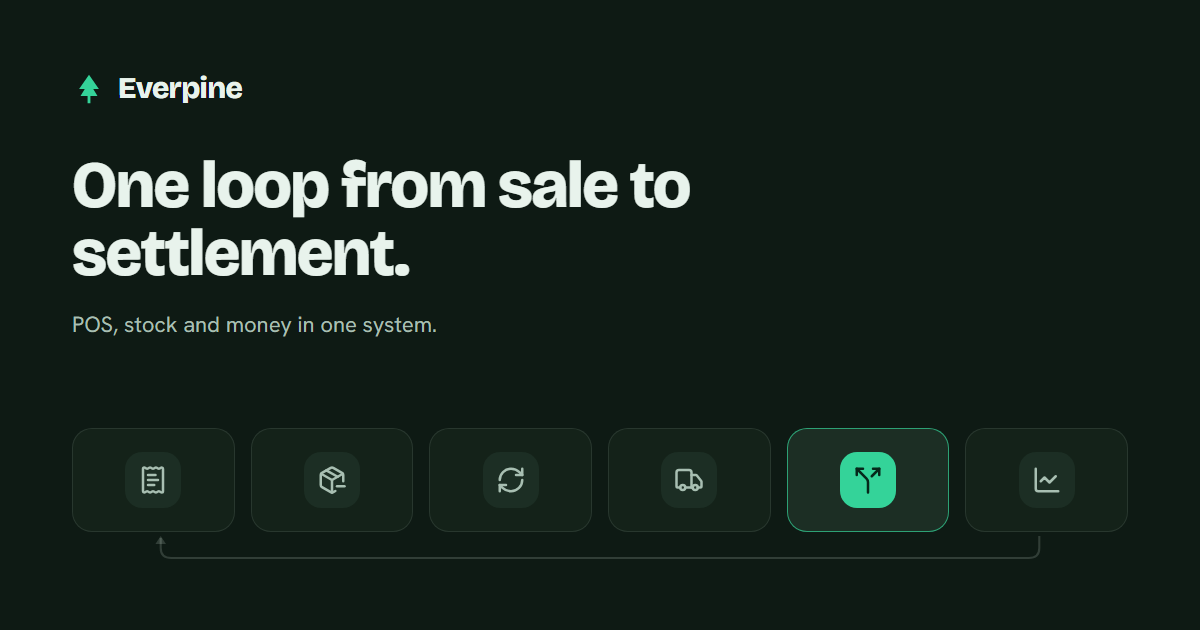
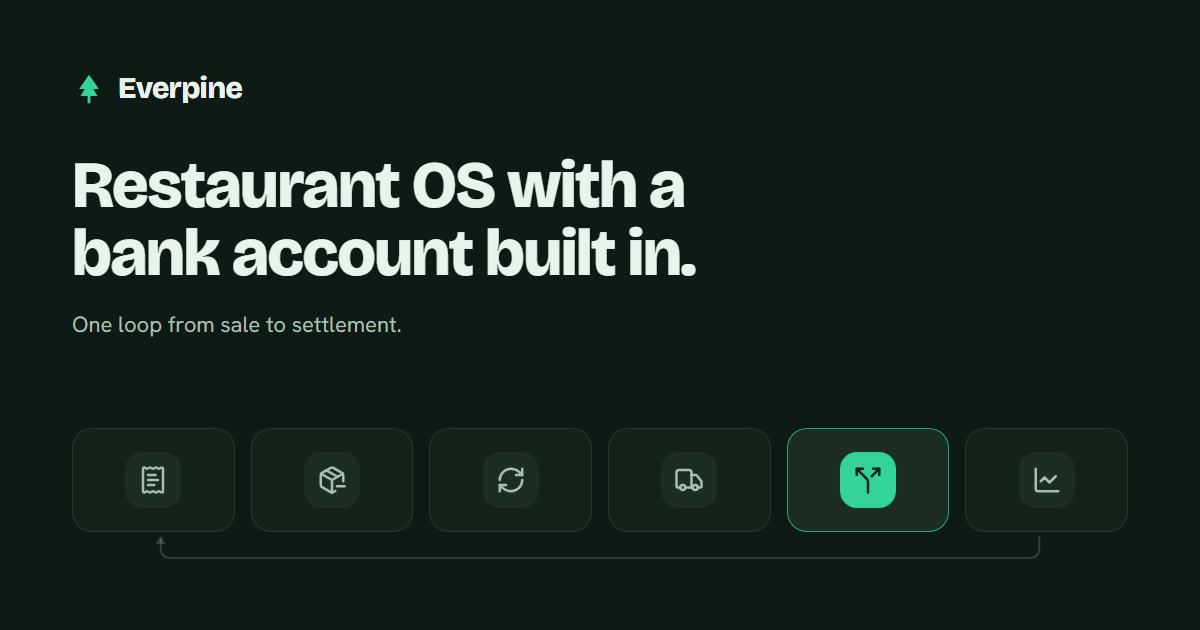
Align the landing with the YC application (v1.1)
The page is the link a partner follows from the application, so any factual
gap between the two reads as embellishment. H1 is now the application's
one-liner; the old H1 opens the subheading. "Built in Austin, running on real
restaurant data" is gone — there are no customers yet and the application says
so. The proof strip tells velocity instead of completeness, because without
customers that is the only thing outsiders can check.

Geography is absent from the page as a class, including the supplier names
baked into the product screenshots: grep cannot see pixels, a reader can.
Those are swapped at capture time by demo-video/neutral-names.js.

Also: a founder block before the CTA (its LinkedIn URL is still blank —
inventing a real person's profile link is worse than omitting it), og:image
now resolves against the host the page is served from while og:url stays
canonical, and a .dockerignore that keeps the live .next out of the build
context — it was mutating mid-tar and failing the build with "unexpected EOF".

Changed region(s): [[0.0617, 0.2413, 0.5858, 0.4524], [0.0617, 0.4825, 0.37, 0.5429]]

diff --git a/app/layout.jsx b/app/layout.jsx
@@ -13,17 +13,29 @@ const dmMono = DM_Mono({
   subsets: ['latin'], weight: ['400', '500'], display: 'swap', variable: '--font-dmmono',
 })
 
-const SITE = process.env.NEXT_PUBLIC_SITE_URL || 'https://everpine.io'
+// Два разных адреса, и это намеренно.
+//
+// HOST — где страница лежит физически. Относительные ссылки в метаданных Next разворачивает
+// в абсолютные по metadataBase, а og:image обязан резолвиться с текущего хоста: картинку
+// скачивает робот Slack, и на ещё не поднятом everpine.io он получит пустое превью.
+// CANONICAL — где страница будет жить постоянно; это адрес для og:url.
+const HOST =
+  process.env.NEXT_PUBLIC_SITE_URL ||
+  (process.env.RAILWAY_PUBLIC_DOMAIN && `https://${process.env.RAILWAY_PUBLIC_DOMAIN}`) ||
+  'https://everpine.io'
+const CANONICAL = 'https://everpine.io'
+
+const TITLE = 'Everpine — Restaurant OS with a bank account built in'
 
 export const metadata = {
-  metadataBase: new URL(SITE),
-  title: 'Everpine · One loop from sale to settlement',
+  metadataBase: new URL(HOST),
+  title: TITLE,
   description:
     'Everpine runs the restaurant operating loop end to end: a sale deducts stock, drafts the reorder, and one supplier payment splits itself across suppliers.',
   openGraph: {
-    title: 'Everpine · One loop from sale to settlement',
+    title: TITLE,
     description: 'POS, inventory and money in one loop. A sale deducts stock, drafts the reorder, and the payment splits itself.',
-    url: '/', siteName: 'Everpine', type: 'website',
+    url: CANONICAL, siteName: 'Everpine', type: 'website',
     images: [{ url: '/assets/og.png', width: 1200, height: 630, alt: 'Everpine: the loop from sale to settlement' }],
   },
   twitter: { card: 'summary_large_image' },
@@ -32,9 +44,13 @@ export const metadata = {
 
 export const viewport = { themeColor: '#0E1A14' }
 
+// suppressHydrationWarning на <html>: класс `js` дописывается скриптом до гидратации, и React
+// честно сообщает о расхождении разметки с сервером. Расхождение здесь намеренное — подавляем
+// предупреждение точечно на этом узле, а не глушим гидратацию целиком.
 export default function RootLayout({ children }) {
   return (
-    <html lang="en" className={`${bricolage.variable} ${hanken.variable} ${dmMono.variable}`}>
+    <html lang="en" suppressHydrationWarning
+          className={`${bricolage.variable} ${hanken.variable} ${dmMono.variable}`}>
       <head>
         {/* Ставим класс до первой отрисовки: без него скрытое состояние scroll-reveal
             вообще не включается, и страница остаётся видимой при сбое JS. */}

diff --git a/components/Proof.jsx b/components/Proof.jsx
@@ -1,13 +1,19 @@
 import s from './Proof.module.css'
 
-// Цифры не выдуманы: 11 сервисов — модули app-rail платформы, «1 платёж» и «0 экспортов» —
-// свойства продукта, Austin — первый рынок. Место набирается головным шрифтом: в моно оно
-// притворялось бы метрикой.
+// Полоса рассказывает velocity, а не полноту: у продукта пока нет клиентов, и единственное
+// честное доказательство — скорость и объём сделанного. Все цифры сверены со статус-документом
+// (docs/STATUS.md: 267 Java + 29 Rust тестов = 296).
+//
+// Свойства продукта («1 платёж», «0 экспортов») отсюда убраны в текст Money-блока: как строки
+// они сильные, как proof — слабые, потому что проверить их со стороны нечем. «11 сервисов»
+// убрано совсем: это возврат к обещанию платформы, а обещание здесь ровно одно — петля.
+// Не-числовые значения набираются головным шрифтом: в моно они притворялись бы метрикой.
 const ITEMS = [
-  { value: '11',     mono: true,  caption: 'services running the loop, one login' },
-  { value: '1',      mono: true,  caption: 'payment splits across every supplier on the order' },
-  { value: '0',      mono: true,  caption: 'exports between POS, stock and the ledger' },
-  { value: 'Austin', mono: false, caption: 'first market, independent restaurants' },
+  { value: '14',              mono: true,  caption: 'months from first commit to working product' },
+  { value: '13',              mono: true,  caption: 'engineers, one team, shipping daily' },
+  { value: '290+',            mono: true,  caption: 'automated tests across Java, Rust and Python' },
+  { value: 'E2EE',            mono: false, caption: 'messenger on a Rust core, not a bolted-on chat' },
+  { value: 'Personal capital', mono: false, caption: 'no outside funding yet' },
 ]
 
 export default function Proof() {

diff --git a/components/Proof.module.css b/components/Proof.module.css
@@ -1,7 +1,18 @@
-.grid { display: grid; grid-template-columns: repeat(4, 1fr); gap: 28px; }
+.grid { display: grid; grid-template-columns: repeat(5, 1fr); gap: 28px; }
 .item { border-left: 1px solid var(--line-2); padding-left: 18px; }
-.value { font-size: 1.9rem; font-weight: 500; letter-spacing: -.03em; color: var(--text); }
-.word  { font-family: var(--font-head); font-weight: 800; letter-spacing: -.02em; }
-.caption { font-size: 13.5px; color: var(--text-3); margin-top: 4px; line-height: 1.45; }
 
-@media (max-width: 900px) { .grid { grid-template-columns: 1fr 1fr; gap: 22px 18px; } }
+/* Значения выравниваются по нижнему краю и держат высоту двух строк: словесные значения
+   («Personal capital») в узкой колонке переносятся, числовые — нет, и без этого подписи
+   в соседних ячейках разъезжались бы по вертикали. */
+.value {
+  display: flex; align-items: flex-end; min-height: 2.3em;
+  font-size: 1.9rem; font-weight: 500; letter-spacing: -.03em; line-height: 1.15; color: var(--text);
+}
+.word  { font-family: var(--font-head); font-weight: 800; letter-spacing: -.02em; font-size: 1.6rem; }
+.caption { font-size: 13.5px; color: var(--text-3); margin-top: 6px; line-height: 1.45; }
+
+/* Пять ячеек не делятся на два: на средней ширине идём в три колонки (3+2), на узкой — в две
+   (2+2+1). Одинокая ячейка в конце допустима: «Personal capital» читается и в одиночку. */
+@media (max-width: 1040px) { .grid { grid-template-columns: repeat(3, 1fr); gap: 24px 20px; } }
+@media (max-width:  640px) { .grid { grid-template-columns: 1fr 1fr; gap: 22px 18px; }
+                             .value { font-size: 1.7rem; } .word { font-size: 1.42rem; } }

diff --git a/components/Hero.jsx b/components/Hero.jsx
@@ -5,10 +5,14 @@ export default function Hero() {
   return (
     <section className={s.hero} id="loop">
       <div className="wrap">
-        <h1>One loop from sale<br />to settlement.</h1>
+        {/* H1 дословно повторяет one-liner заявки в YC: партнёр приходит по ссылке из неё,
+            и первая строка страницы обязана совпасть с тем, что он только что прочитал.
+            Перенос строки не проставлен вручную: длина заголовка такова, что на любой
+            ширине он ломается сам, а зашитый <br> на планшете даёт сиротскую строку. */}
+        <h1 className={s.title}>Restaurant OS with a bank account built in.</h1>
         <p className="lede">
-          A sale deducts stock, drafts the reorder and pays each supplier its share.
-          No exports, no evening spent reconciling.
+          One loop from sale to settlement: a sale deducts stock, drafts the reorder and pays
+          each supplier its share. No exports, no evening spent reconciling.
         </p>
         <div className={s.actions}>
           <a href="#talk" className="btn">Talk to us</a>

diff --git a/components/Founder.jsx b/components/Founder.jsx
@@ -1,0 +1,27 @@
+import s from './Founder.module.css'
+
+// Ссылка на LinkedIn не проставлена: её нет ни в ассетах, ни где-либо в проекте, а выдуманный
+// адрес профиля живого человека — худший вид битой ссылки на странице для инвестора. Впишите
+// URL сюда, и ссылка появится сама; пустая строка означает «блок без ссылки».
+const LINKEDIN = ''
+
+export default function Founder() {
+  return (
+    <section className={`section ${s.wrapper}`}>
+      <div className="wrap">
+        <div className={`${s.card} rise`}>
+          <p className="eyebrow">Who is building it</p>
+          <p className={s.line}>
+            <b className={s.name}>Stepan Arakelian</b> — 15 years in software, ex-CTO, payments
+            background. Wrote the first version personally.
+          </p>
+          {LINKEDIN && (
+            <a href={LINKEDIN} className={s.link} target="_blank" rel="noopener noreferrer">
+              LinkedIn
+            </a>
+          )}
+        </div>
+      </div>
+    </section>
+  )
+}

diff --git a/components/Cta.jsx b/components/Cta.jsx
@@ -4,9 +4,13 @@ export default function Cta() {
   return (
     <section className="section" id="talk">
       <div className="wrap">
-        <h2>Built in Austin, running on real restaurant data.</h2>
+        {/* Прежний заголовок обещал «running on real restaurant data» — клиентов пока нет,
+            и в заявке это сказано прямо. Расхождение сайта с заявкой читается партнёром как
+            приукрашивание, поэтому здесь ровно то же, что и там: срок и стадия. */}
+        <h2>Built in 14 months. Launching with the first pilot cohort.</h2>
         <p className="lede">
-          We are talking to independent operators and to investors who want the loop, not another dashboard.
+          We are talking to independent operators in Los Angeles and to investors who want the loop,
+          not another dashboard.
         </p>
 
         {/* Форма отправляет на почту: бэкенда у лендинга нет и не нужно. Когда появится CRM-хук,

diff --git a/components/Founder.module.css b/components/Founder.module.css
@@ -1,0 +1,22 @@
+/* Блок компактный намеренно: это одна строка доверия перед CTA, а не раздел «о команде».
+   Свой вертикальный отступ меньше секционного — иначе между ним и CTA возникает провал. */
+.wrapper { padding: calc(var(--section-y) * .62) 0; }
+
+.card {
+  background: var(--ink-2); border: 1px solid var(--line);
+  border-radius: var(--r); padding: 22px 26px; max-width: 720px;
+}
+.line { color: var(--text-2); max-width: 60ch; }
+.name { font-family: var(--font-head); font-weight: 800; color: var(--text); letter-spacing: -.01em; }
+
+.link {
+  display: inline-block; margin-top: 12px; font-size: 14px; font-weight: 600;
+  color: var(--mint); text-decoration: none; border-bottom: 1px solid transparent;
+}
+.link:hover { border-bottom-color: var(--mint); }
+.link:focus-visible { outline: 2px solid var(--mint); outline-offset: 3px; border-radius: 2px; }
+
+@media (max-width: 640px) {
+  .wrapper { padding: calc(var(--section-y-m) * .8) 0; }
+  .card { padding: 18px 20px; }
+}

diff --git a/app/page.jsx b/app/page.jsx
@@ -2,6 +2,7 @@ import Nav from '../components/Nav'
 import Hero from '../components/Hero'
 import Proof from '../components/Proof'
 import Shot from '../components/Shot'
+import Founder from '../components/Founder'
 import Cta from '../components/Cta'
 import Footer from '../components/Footer'
 import Reveal from '../components/Reveal'
@@ -62,6 +63,10 @@ export default function Page() {
                 This is the part nobody else does. It is why the loop closes instead of ending
                 in a spreadsheet.
               </p>
+              <p className={`body ${s.facts}`}>
+                <span><b className="num">1</b> payment splits across every supplier on the order.</span>
+                <span><b className="num">0</b> exports between POS, stock and the ledger.</span>
+              </p>
             </div>
             <Shot
               src="/assets/money.png" width={1004} height={1032} className="portrait"
@@ -70,6 +75,7 @@ export default function Page() {
           </div>
         </section>
 
+        <Founder />
         <Cta />
       </main>
       <Footer />

diff --git a/components/Footer.jsx b/components/Footer.jsx
@@ -5,9 +5,12 @@ export default function Footer() {
   return (
     <footer className={s.footer}>
       <div className="wrap">
+        {/* Географии на лендинге нет как класса (решение, июль 2026): US-адреса пока нет,
+            писать его было бы той же фабрикацией, что и прежний Austin, а Ереван противоречит
+            первому рынку. Местонахождение команды честно указано в заявке YC. */}
         <div className={s.row}>
           <span className={s.mark}><Logo width={20} height={20} /> Everpine</span>
-          <p className={s.meta}>Pine, Austin TX</p>
+          <p className={s.meta}>© Everpine</p>
           <a href="mailto:stepan@everpine.io" className={s.mail}>stepan@everpine.io</a>
         </div>
       </div>

diff --git a/components/Hero.module.css b/components/Hero.module.css
@@ -1,6 +1,9 @@
 /* Верхний отступ сознательно небольшой: hero обязан уместиться в первый экран вместе с CTA,
    а «воздух» набирается размером заголовка и схемой, а не пустотой сверху. */
 .hero { padding: 64px 0 84px; }
+/* Заголовок длиннее прежнего: без ограничения он на широком экране растягивается в одну
+   строку до края и теряет вертикальный ритм с подзаголовком. */
+.title { max-width: 18ch; }
 .actions { display: flex; flex-wrap: wrap; gap: 12px; margin-top: 28px; }
 
 @media (max-width: 640px) { .hero { padding: 40px 0 56px; } }

diff --git a/app/page.module.css b/app/page.module.css
@@ -1,6 +1,11 @@
 .split { display: grid; grid-template-columns: 1fr 1fr; gap: 56px; align-items: center; }
 .mirror .text { order: 2; }
 
+/* Две строки-свойства продукта. В полосе фактов они стояли как proof, хотя проверить их
+   со стороны нечем; здесь, рядом с кадром сплита, они наконец подкреплены картинкой. */
+.facts { color: var(--text); margin-top: 18px; padding-left: 16px; border-left: 2px solid var(--mint); }
+.facts span + span { display: block; margin-top: 4px; }
+
 @media (max-width: 900px) {
   .split { grid-template-columns: 1fr; gap: 28px; }
   .mirror .text { order: 0; }
